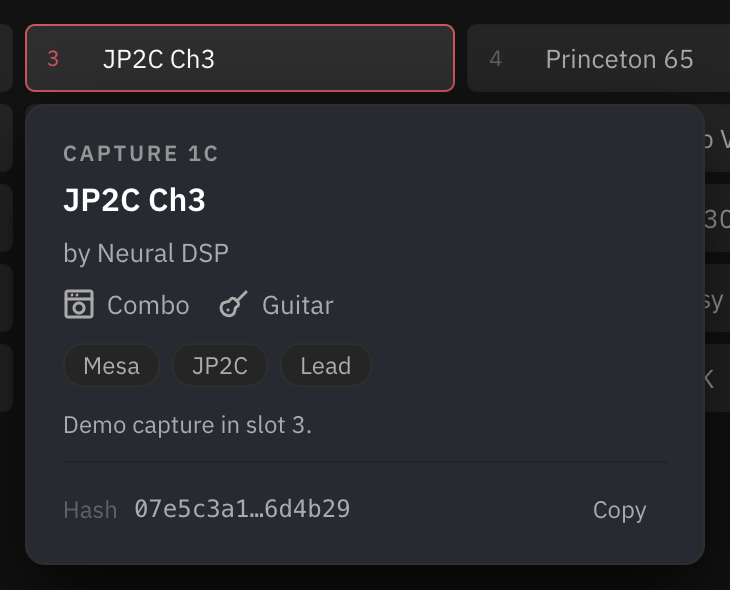
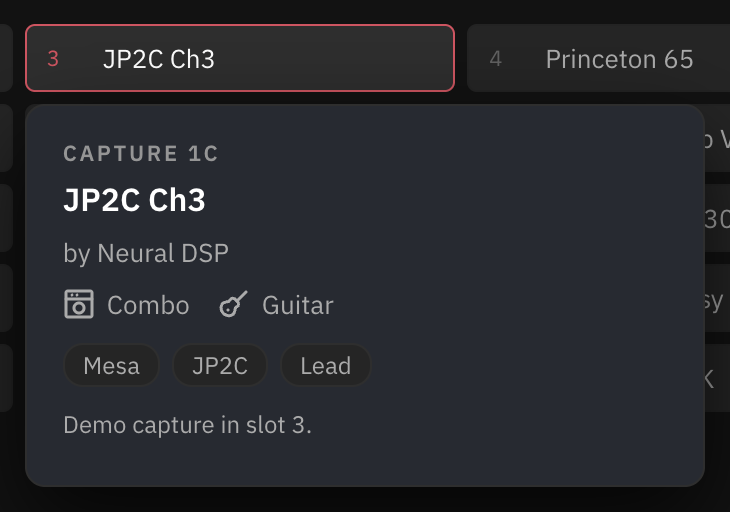
Docs: Developer tools, Help → Show Log File, retaken screenshots
Manual: a Developer tools subsection under Settings (new settings-advanced.png),
Activity/Record need it, Troubleshooting and bug reports ask for activity.log.
Bug report template, README, CONTRIBUTING, CLAUDE.md and CHANGELOG updated.
Status bar, Settings, Device, capture info, shortcuts and hero retaken in
normal mode; activity.png is taken with Developer tools on.

diff --git a/docs/MANUAL.md b/docs/MANUAL.md
@@ -122,14 +122,15 @@ stage's **On** switch.
 
 ![The capture inspector: amp knobs, capture volume and the 25 capture slots on the pedal](images/inspector-capture.png)
 
-**Status bar** (bottom): connection state, the last action sent, and the **Settings**, **Shortcuts**, **Record**,
-**Activity** and **♥ Support** buttons. **♥ Support** opens the project's Buy Me a Coffee page in your browser; it's
-entirely optional.
+**Status bar** (bottom): connection state, progress of longer actions (saving, scans, capture transfers), and the
+**Settings**, **Shortcuts** and **♥ Support** buttons. **♥ Support** opens the project's Buy Me a Coffee page in your
+browser; it's entirely optional. With [Developer tools](#developer-tools) on, the status bar also shows the last
+message sent and the **Record** and **Activity** buttons.
 
-![The status bar: demo-mode indicator, the last action, and the Settings, Shortcuts, Record, Activity and Support buttons](images/status-bar.png)
+![The status bar: demo-mode indicator and the Settings, Shortcuts and Support buttons](images/status-bar.png)
 
-**Help menu**: **Manual** (this page), **GitHub Repository**, **Report an Issue** and **Support the Project…**. Each
-opens in your default browser.
+**Help menu**: **Manual** (this page), **GitHub Repository**, **Report an Issue**, **Show Log File** (see
+[Troubleshooting](#15-troubleshooting)) and **Support the Project…**. The links open in your default browser.
 
 ## 4. Presets
 
@@ -221,10 +222,10 @@ Right-click a slot for **Load**, **Put a library capture in slot N…** and **In
 
 ![The capture slot menu: Put a library capture in slot 3… and Info…](images/slot-menu.png)
 
-**Info…** asks the pedal for the capture's details: author, kind and instrument, tags, description and its hash
-(**Copy** puts the full hash on the clipboard).
+**Info…** asks the pedal for the capture's details: author, kind and instrument, tags and description. With
+[Developer tools](#developer-tools) on it also shows the capture's hash (**Copy** puts the full hash on the clipboard).
 
-![Capture info: Capture 1C, JP2C Ch3 by Neural DSP, combo and guitar icons, tags, description and hash](images/capture-info.png)
+![Capture info: Capture 1C, JP2C Ch3 by Neural DSP, combo and guitar icons, tags and description](images/capture-info.png)
 
 When a preset plays a capture straight from the library rather than from a slot, the node and inspector say
 "From the library: *name*".
@@ -371,16 +372,32 @@ Open Settings with ⌘, (Ctrl+, on Windows), from the app menu, or with **Settin
   **Follow the preset tempo**, beats per bar, which mode the panel **Opens in**, and the Advanced defaults (pattern,
   subdivision, count-in and the three levels).
 - **Connection**: **Reconnect to the last pedal at launch** and **Forget pedal**.
-- **Advanced**: **Show the Activity drawer at launch** and **Show recordings folder**.
+- **Advanced**: **Developer tools** (below). With it on, also **Show the Activity drawer at launch** and **Show
+  recordings folder**.
+
+<a id="developer-tools"></a>
+**Developer tools** (Settings → General → Advanced, off by default): "Shows the Activity log, session recording and
+protocol details. For troubleshooting and development." Turning it on adds, straight away:
+
+- **Record** and **Activity** in the status bar, the Activity drawer and its shortcut ⌘L
+  ([section 13](#13-session-recording-and-the-activity-log)), and the last message sent ("Sent: …") in the status bar;
+- **Show the Activity drawer at launch** and **Show recordings folder** in Settings;
+- the device **Hash** and **Raw settings** on the Device tab, and the capture hash in **Info…**;
+- **View → Classic Editor**, **View → Reload Current** (⌘R) and **View → Developer Tools** in the menu.
+
+Turning it off hides them again, stops a recording in progress (it is saved to the recordings folder without asking) and
+closes the Activity drawer. The log file (**Help → Show Log File**) is written either way.
+
+![Settings, General tab scrolled to Advanced: the Developer tools switch, off, with its description](images/settings-advanced.png)
 
 **Device** reads the pedal's own settings each time you open it.
 
-![Settings, Device tab: name, firmware, serial and hash, LED brightness, USB playback volume and Raw settings](images/settings-device.png)
+![Settings, Device tab: name, firmware and serial, LED brightness and USB playback volume](images/settings-device.png)
 
-- **About**: the pedal's name, firmware, serial number and device hash.
+- **About**: the pedal's name, firmware and serial number (and, with Developer tools on, the device hash).
 - **LED brightness** (the manual's default is 60 %) and **USB playback volume** (audio from the computer over USB,
   default −6.0 dB). These are global settings: they apply on the pedal right away, not per preset.
-- **Raw settings** lists the other values the pedal reports, read-only.
+- **Raw settings** (Developer tools only) lists the other values the pedal reports, read-only.
 - **Read again** refreshes everything.
 
 **About** shows the app's version and who makes it, with links to the GitHub repository, this manual, the native
@@ -390,10 +407,13 @@ macOS edition and **Buy me a coffee** (all open in your browser), plus the trade
 
 ## 13. Session recording and the Activity log
 
+Both need [Developer tools](#developer-tools) (Settings → General → Advanced). The same log is always written to a
+file, with or without them: **Help → Show Log File**.
+
 **Activity** in the status bar (⌘L) opens the Activity log: every Bluetooth message sent (TX) and received (RX), with
 a plain-language line for each one the editor understands.
 
-![The Activity drawer with timestamped TX and RX lines above the status bar](images/activity.png)
+![The Activity drawer with timestamped TX and RX lines above the status bar (taken with Developer tools on)](images/activity.png)
 
 **Record** in the status bar captures every packet in both directions, with timestamps and the log. Click it again to
 stop; the app asks where to save the JSON file (your Downloads folder by default). Recordings help with bug reports,
@@ -421,13 +441,14 @@ manual. On Windows use Ctrl for ⌘.
 | E | Expression pedal assignments |
 | M | Change the effect in the selected slot |
 | ⌘F | Filter presets |
-| ⌘L | Show Bluetooth activity |
+| ⌘L | Show Bluetooth activity (Developer tools only) |
+| Record | In the status bar: record every packet, then save it as JSON (Developer tools only) |
 | T | Tuner (Esc closes it) |
 | N | Metronome (Space starts and stops it) |
 | Drag, scroll, arrows | Adjust a knob; hold Shift for fine control |
 | Double-click a knob | Reset it |
 | Click a value | Type an exact value |
-| ⌘R | Reload the current tab |
+| ⌘R | Reload the current tab (Developer tools only) |
 
 ## 15. Troubleshooting
 
@@ -453,7 +474,7 @@ Applications → **Open**, or use **System Settings → Privacy & Security → O
 **Windows: SmartScreen blocks the app.** Click **More info → Run anyway**.
 
 **Something on screen doesn't match the pedal.** Click **Refresh** in the header to re-read everything. If the problem
-stays, open the Activity log (⌘L) and include the relevant lines in a bug report.
+stays, choose **Help → Show Log File** and attach `activity.log` to a bug report.
 
 **Reconnect at launch doesn't find the pedal.** The pedal needs to be on and visible before the app starts; otherwise
 click **Connect** once it is.
@@ -462,7 +483,11 @@ click **Connect** once it is.
 trainer isn't in a muted bar.
 
 **Reporting a bug.** Open an [issue](https://github.com/AJs-Creations/nano-cortex-editor/issues) with your system,
-the app version (About), the pedal's firmware (Settings → Device) and an Activity log excerpt.
+the app version (About), the pedal's firmware (Settings → Device), and the log file: reproduce the problem, choose
+**Help → Show Log File** and attach `activity.log` (macOS: `~/Library/Logs/Nano Cortex Editor/`; Windows: the app's
+`logs` folder under `%APPDATA%`). It holds the last ~2 MB of activity (plus one older file, `activity.1.log`) and
+includes the pedal's serial number; remove anything you don't want to share. For developers: turn on
+[Developer tools](#developer-tools) for the live Activity drawer and session recording.
 
 ## 16. FAQ
 
@@ -491,7 +516,7 @@ resulting session to download a capture when you click **Send to Nano Cortex**.
 [Nano Cortex Editor for Mac](https://github.com/AJs-Creations/nano-cortex-editor-mac), with the same features.
 
 **What is View → Classic Editor?** The original community editor by DrD85 that this app's protocol layer comes from,
-kept as a fallback.
+kept as a fallback. It is in the View menu while [Developer tools](#developer-tools) are on.
 
 **Can I support the project?** It's free and always will be. If this editor saves you time, you can
 [buy me a coffee](https://buymeacoffee.com/ajscreations).

diff --git a/CLAUDE.md b/CLAUDE.md
@@ -36,7 +36,9 @@ npm run docs:screenshots # regenerate docs/images/ in demo mode (needs Python + 
 - `pro/transfer.js`: capture upload to the pedal (streamed type-13 message, decoded from a phone-app trace; `docs/INVESTIGATION.md` §6). `src/editor-preload.js` is the only bridge into the editor page: it delivers capture bundles fetched by `src/main.js` with the Cloud tab's session.
 - `pro/ui.js` and `pro/ui.css`: the whole UI. It overrides the hooks on `window`. Demo mode (`?demo`, or no Web Bluetooth) fakes the write characteristic and answers typed requests (preset change, rename, library, slot loads, tuner) through the real parsers, so writes still go through the real packet builders.
 - Metronome (N): Simple / Advanced overlay. `metroBarEvents(setup, bar)` in `pro/ui.js` is the pure event generator (the spec for the native port); the scheduler consumes it, trainers apply only at bar starts, sounds go through `soundFor(role)`.
-- Settings (⌘,): accent, metronome defaults, reconnect at launch, Activity at launch. Page prefs live in localStorage (`settings.*`, `metronome`); what main needs before the page loads (accent for the Dock icon, the remembered pedal) is in `userData/settings.json`. `src/accent-icon.js` renders the accent icon. `src/editor-preload.js` exposes `window.nanoShell` for these.
+- Settings (⌘,): accent, metronome defaults, reconnect at launch, Developer tools, Activity at launch. Page prefs live in localStorage (`settings.*`, `metronome`); what main needs before the page loads (accent for the Dock icon, the remembered pedal, `devTools` for the menu) is in `userData/settings.json`.
+- **Developer tools** (`settings.devTools`, off by default; Settings → General → Advanced): gates Record, the Activity drawer and ⌘L, "Sent: …" in the status bar, Activity at launch, Raw settings and the device/capture hashes (elements with class `dev-only`, hidden unless `body.dev-tools`), plus View → Classic Editor / Reload Current / Developer Tools (`src/menu.js`, rebuilt via `nanoShell.setDevTools`). The UX test turns it on with the real switch near the start. Not gated: the dev remote, the `[editor]` terminal mirror, demo mode.
+- Activity log file for everyone: main writes every editor console line to `app.getPath('logs')/activity.log` (`src/activity-log.js`: batched ~1 s, rotates to `activity.1.log` past 2 MB). Help → Show Log File reveals it. `src/accent-icon.js` renders the accent icon. `src/editor-preload.js` exposes `window.nanoShell` for these.
 - `src/main.js`: the window, both tabs as `WebContentsView`s, the Bluetooth device picker (Electron has none; see `select-bluetooth-device`), permissions, and the Cortex Cloud session partition (`persist:cortex-cloud`).
 - `test/ux-test.js`: drives the UI with real mouse, wheel and key events. It asserts both UI state **and the exact packets sent**. Its check names are effectively the behaviour spec.
 - Dev remote for hardware sessions: `NANO_DEV_PORT=4848 npm start`, then `curl -d '<js>' http://127.0.0.1:4848/eval` runs JS in the editor page (`?target=cloud` for the Cloud tab), `/log?since=N` returns the Activity log, `/shot?target=cloud&file=…` screenshots (never put Cloud-tab screenshots in the docs). Localhost only, never in packaged builds.
@@ -56,7 +58,7 @@ npm run docs:screenshots # regenerate docs/images/ in demo mode (needs Python + 
 
 - **Feature parity with the native app** (`../nano-cortex-editor-mac`): every feature Anup asks for lands in both editors unless it genuinely cannot apply to one; he is still deciding between them. This app's CSS is the visual reference for the native one.
 
-- **Hardware in the loop.** Anup has the pedal. For anything protocol-related, ask him to do the physical step and read the Activity log (⌘L), rather than guessing byte formats.
+- **Hardware in the loop.** Anup has the pedal. For anything protocol-related, ask him to do the physical step and read the Activity log (⌘L, Developer tools on), rather than guessing byte formats.
 - Before the first write to a real pedal, make sure his presets are backed up in the official app.
 - Edits are live on the pedal; **Save** (⌘S) commits them to the preset. Never save without an explicit user action.
 - Never send MIDI to a port that isn't the Nano.

diff --git a/README.md b/README.md
@@ -39,7 +39,8 @@ whole editor on sample data.
   **Device** page with the pedal's details, LED brightness and USB playback volume, and **About**.
 - **Cortex Cloud tab**: the Cortex Cloud website with your own login; on a capture's page, **Send to Nano Cortex**
   puts it in the pedal's library over Bluetooth.
-- **Activity log and session recording** of the Bluetooth traffic, for troubleshooting.
+- **A log file for bug reports** (Help → Show Log File), and for developers an Activity log and session recording of
+  the Bluetooth traffic (Settings → Developer tools).
 - **Keyboard shortcuts** for everything common (press `?` in the app).
 - **Demo mode**: try every feature without a pedal.
 
@@ -102,7 +103,7 @@ help out and [CHANGELOG.md](CHANGELOG.md) for what changed.
 The Bluetooth protocol layer comes from the community
 [Nano Cortex Editor by DrD85](https://github.com/DrD85/nano-cortex-editor) (MIT), which builds on
 [nano-cortex-web-editor by choldy](https://github.com/choldy/nano-cortex-web-editor) (MIT). DrD85's original
-interface is still in the app under **View → Classic Editor**. Thanks to both projects. Full notices:
+interface is still in the app under **View → Classic Editor** (with Developer tools on). Thanks to both projects. Full notices:
 [THIRD_PARTY_NOTICES.md](THIRD_PARTY_NOTICES.md).
 
 ## Trademarks

diff --git a/CHANGELOG.md b/CHANGELOG.md
@@ -10,6 +10,13 @@ All notable changes to Nano Cortex Editor (Electron edition). Versions follow [S
   GitHub Repository, Report an Issue, Support the Project…), links to the manual on the connect screen, in the
   shortcuts sheet and in connection errors, and a quiet "♥ Support" link in the status bar. Every link opens in
   your browser.
+- Settings → General → Advanced → **Developer tools** (off by default). It shows the Activity log, session recording
+  and protocol details: Record and Activity in the status bar, ⌘L, the "Sent: …" status text, Activity at launch,
+  Raw settings and the device and capture hashes, and View → Classic Editor, Reload Current and Developer Tools.
+  Everything appears and disappears at once when you flip it; turning it off stops a recording in progress (saving
+  it to the recordings folder) and closes the Activity drawer.
+- **Help → Show Log File**, for everyone: the Activity log is also written to `activity.log` in the app's logs folder
+  (the last ~2 MB plus one older file). The bug report template asks for it.
 
 ## 1.0.0 — 2026-10-09
 

diff --git a/.github/ISSUE_TEMPLATE/bug_report.md b/.github/ISSUE_TEMPLATE/bug_report.md
@@ -22,13 +22,10 @@ A clear description of the problem.
 - Pedal firmware (Settings → Device → Firmware):
 - Connected to a pedal, or demo mode?
 
-**Activity log excerpt**
-Open the Activity log (⌘L / Ctrl+L), reproduce the problem, and paste the relevant lines here. Remove anything you
-don't want to share (the Device info line shows the pedal's serial number).
-
-```
-paste here
-```
+**Log file**
+Reproduce the problem, then choose **Help → Show Log File** and attach `activity.log` here (drag it into this box).
+Remove anything you don't want to share first (the Device info lines show the pedal's serial number). If you have
+Developer tools on (Settings → General → Advanced), pasting the relevant Activity lines (⌘L / Ctrl+L) works too.
 
 **Screenshots**
 If useful. Please don't post screenshots of other people's content from Cortex Cloud.

diff --git a/CONTRIBUTING.md b/CONTRIBUTING.md
@@ -30,7 +30,8 @@ If a change affects what users see, update `docs/MANUAL.md` and, where it helps,
 ## Hardware in the loop
 
 The protocol is reverse-engineered. For anything protocol-related, verify on a real pedal: do the physical step, read
-the Activity log (⌘L / Ctrl+L), and describe what you saw in the PR. Don't guess byte formats. Back up your presets in
+the Activity log (turn on **Developer tools** in Settings → General → Advanced, then ⌘L / Ctrl+L; it also enables
+Record, protocol details and View → Classic Editor / Developer Tools), and describe what you saw in the PR. Don't guess byte formats. Back up your presets in
 the official app before writing to a pedal, and never save without an explicit user action.
 
 ## Privacy: recordings are never committed
